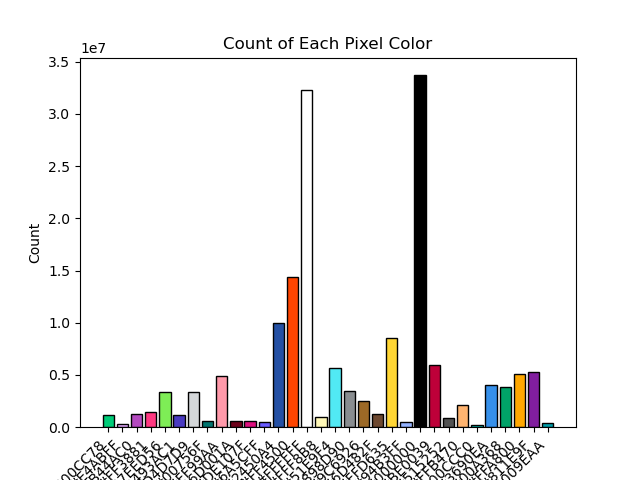
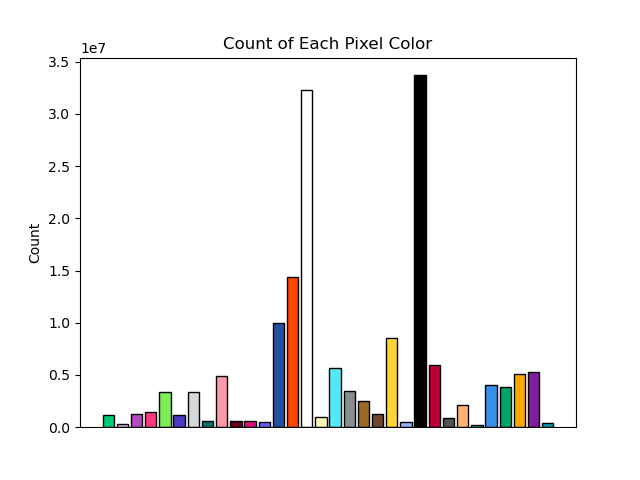
Update index.html with new graphs and remove unused image files

Changed region(s): [[0.0938, 0.9062, 0.8438, 1.0]]

diff --git a/index.html b/index.html
@@ -42,21 +42,27 @@
     <div id="ctn-analisis-datos">
         <h2>Algunos resultados interesantes</h2>
         <div class="row">
-            <div class="col-md-12" id="graficaActividad">
+            <h3>Gráfica de la actividad durante el evento</h3>
+            <div class="col-md-12" id="graficaActividad">                
+                <p>Aqui podemos ver la cantidad de píxeles que fueron colocados cada hora desde el inicio del evento hasta su fin.</p>
                 <img src="img/masActividad.jpg">
             </div>
-            
-            <div class="col-md-6" id="explicacion">
-                <h3>Grafica 1</h3>
+        </div>
+        <div class="row">
+            <h3>Gráfica de la actividad durante el evento</h3>
+            <div class="col-md-6" id="grafica">                
+                <img src="img/FrecuenciaColores.png">
+            </div>
+            <div class="col-md-6" id="explicacion">               
                 <p>Lorem ipsum dolor sit amet, consectetur adipiscing elit. Sed do eiusmod tempor incididunt ut labore et dolore magna aliqua. Ut enim ad minim veniam, quis nostrud exercitation ullamco laboris nisi ut aliquip ex ea commodo consequat. Duis aute irure dolor in reprehenderit in voluptate velit esse cillum dolore eu fugiat nulla pariatur. Excepteur sint occaecat cupidatat non proident, sunt in culpa qui officia deserunt mollit anim id est laborum.
                 </p>
             </div>
-
+        </div>
+        <div class="row">
+            <h3>Los píxeles que más se han cambiado</h3>            
             
-            <div class="col-md-6" id="explicacion">
-                <h3>Grafica 2</h3>
-                <p>Lorem ipsum dolor sit amet, consectetur adipiscing elit. Sed do eiusmod tempor incididunt ut labore et dolore magna aliqua. Ut enim ad minim veniam, quis nostrud exercitation ullamco laboris nisi ut aliquip ex ea commodo consequat. Duis aute irure dolor in reprehenderit in voluptate velit esse cillum dolore eu fugiat nulla pariatur. Excepteur sint occaecat cupidatat non proident, sunt in culpa qui officia deserunt mollit anim id est laborum.
-                </p>
+            <div class="col-md-12" id="grafica">                
+                <img src="img/mostEditedPixel.png">
             </div>
         </div>    
     </div>
